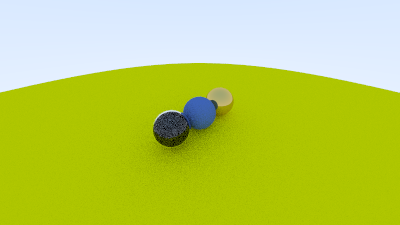
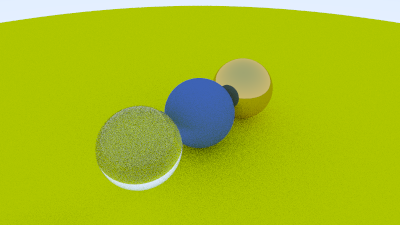
Added a timer for renders

diff --git a/src/main.cc b/src/main.cc
@@ -6,8 +6,10 @@
 #include "hittables/sphere.h"
 #include "material.h"
 
+#include <chrono>
 #include <iostream>
 #include <fstream>
+
 
 color ray_color(const ray& r, const hittable& world, int depth) {
     hit_record rec;
@@ -41,7 +43,7 @@ int main() {
     // World
     hittable_list world;
 
-    auto material_ground = make_shared<lambertian>(color(0.8, 0.8, 0.0));
+   auto material_ground = make_shared<lambertian>(color(0.8, 0.8, 0.0));
     auto material_center = make_shared<lambertian>(color(0.1, 0.2, 0.5));
     auto material_left = make_shared<dielectric>(1.5);
     auto material_right = make_shared<metal>(color(0.8, 0.6, 0.2), 0.0);
@@ -49,15 +51,16 @@ int main() {
     world.add(make_shared<sphere>(point3(0.0, -100.5, -1.0), 100.0, material_ground));
     world.add(make_shared<sphere>(point3(0.0, 0.0, -1.0), 0.5, material_center));
     world.add(make_shared<sphere>(point3(-1.0, 0.0, -1.0), 0.5, material_left));
-    world.add(make_shared<sphere>(point3(-1.0, 0.0, -1.0), -0.45, material_left));
     world.add(make_shared<sphere>(point3(1.0, 0.0, -1.0), 0.5, material_right));
 
-    camera cam(point3(-2, 2, 1), point3(0, 0, -1), vec3(0, 1, 0), 90, aspect_ratio);
+    camera cam(point3(-2, 2, 1), point3(0, 0, -1), vec3(0, 1, 0), 50, aspect_ratio);
 
     // Render
     std::ofstream output_file;
     output_file.open("./image.ppm");
 
+    // Measure render time
+    auto start = std::chrono::steady_clock::now();
     output_file << "P3\n" << image_width << " " << image_height << "\n255\n";
     for (int j = image_height-1; j >= 0; --j) {
         std::cerr << "\rScanlines remaining: " << j << ' ' << std::flush;
@@ -72,6 +75,11 @@ int main() {
             write_color(output_file, pixel_color, samples_per_pixel);
         }
     }
+
+    // Get the elapsed time and convert to milliseconds for printing
+    auto end = std::chrono::steady_clock::now();
+    auto elapsed = (std::chrono::duration_cast<std::chrono::milliseconds>(end - start).count()) / 1000.0;
+
     output_file.close();
-    std::cerr << "\nDone.\n";
+    std::cerr << "\nDone! Render took " << elapsed << " seconds.\n";
 }

diff --git a/README.md b/README.md
@@ -7,6 +7,7 @@ I won't be doing this in one weekend but over a couple of weeks/months when I ge
 
 # Examples
 I started taking screen shot examples as I went once I got about half way through.
+I started tracking render times in Debug builds when I added the camera in #3.
 
 ### 1. Creating a metallic material
 <img src="output_images/RTOW_firstmetal.png" width=400 height=225/>
@@ -14,5 +15,7 @@ I started taking screen shot examples as I went once I got about half way throug
 ### 2. Creating a dielectric material - eg: a glass ball
 <img src="output_images/RTOW_dielectric.png" width=400 height=225/>
 
-## 3. Added positionable camera with controllable FOV
+## 3. Added positionable camera with controllable FOV 
+Render Time: ~9.8s with no optimizations
 <img src="output_images/RTOW_positioned_camera.png" width=400 height=225/>
+
